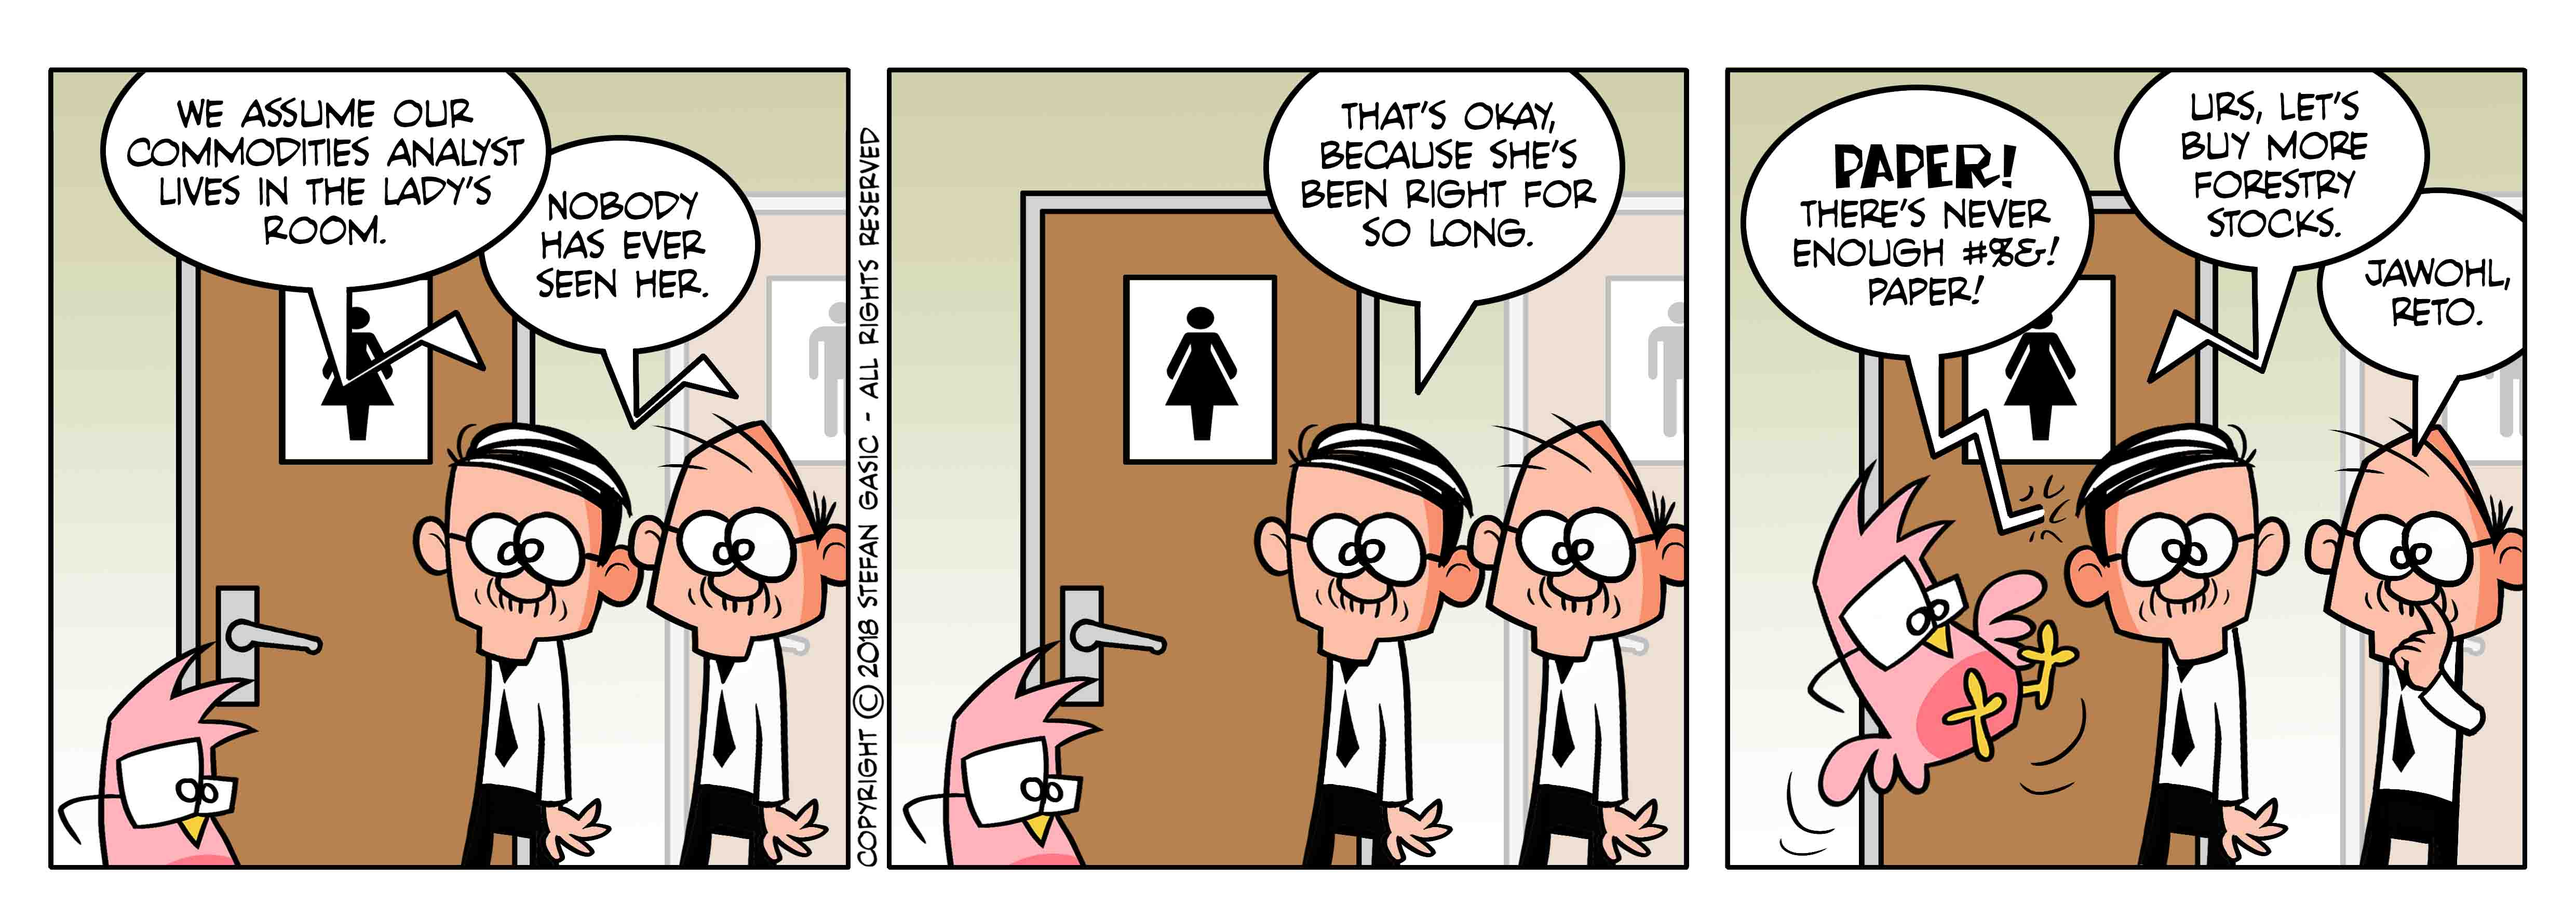
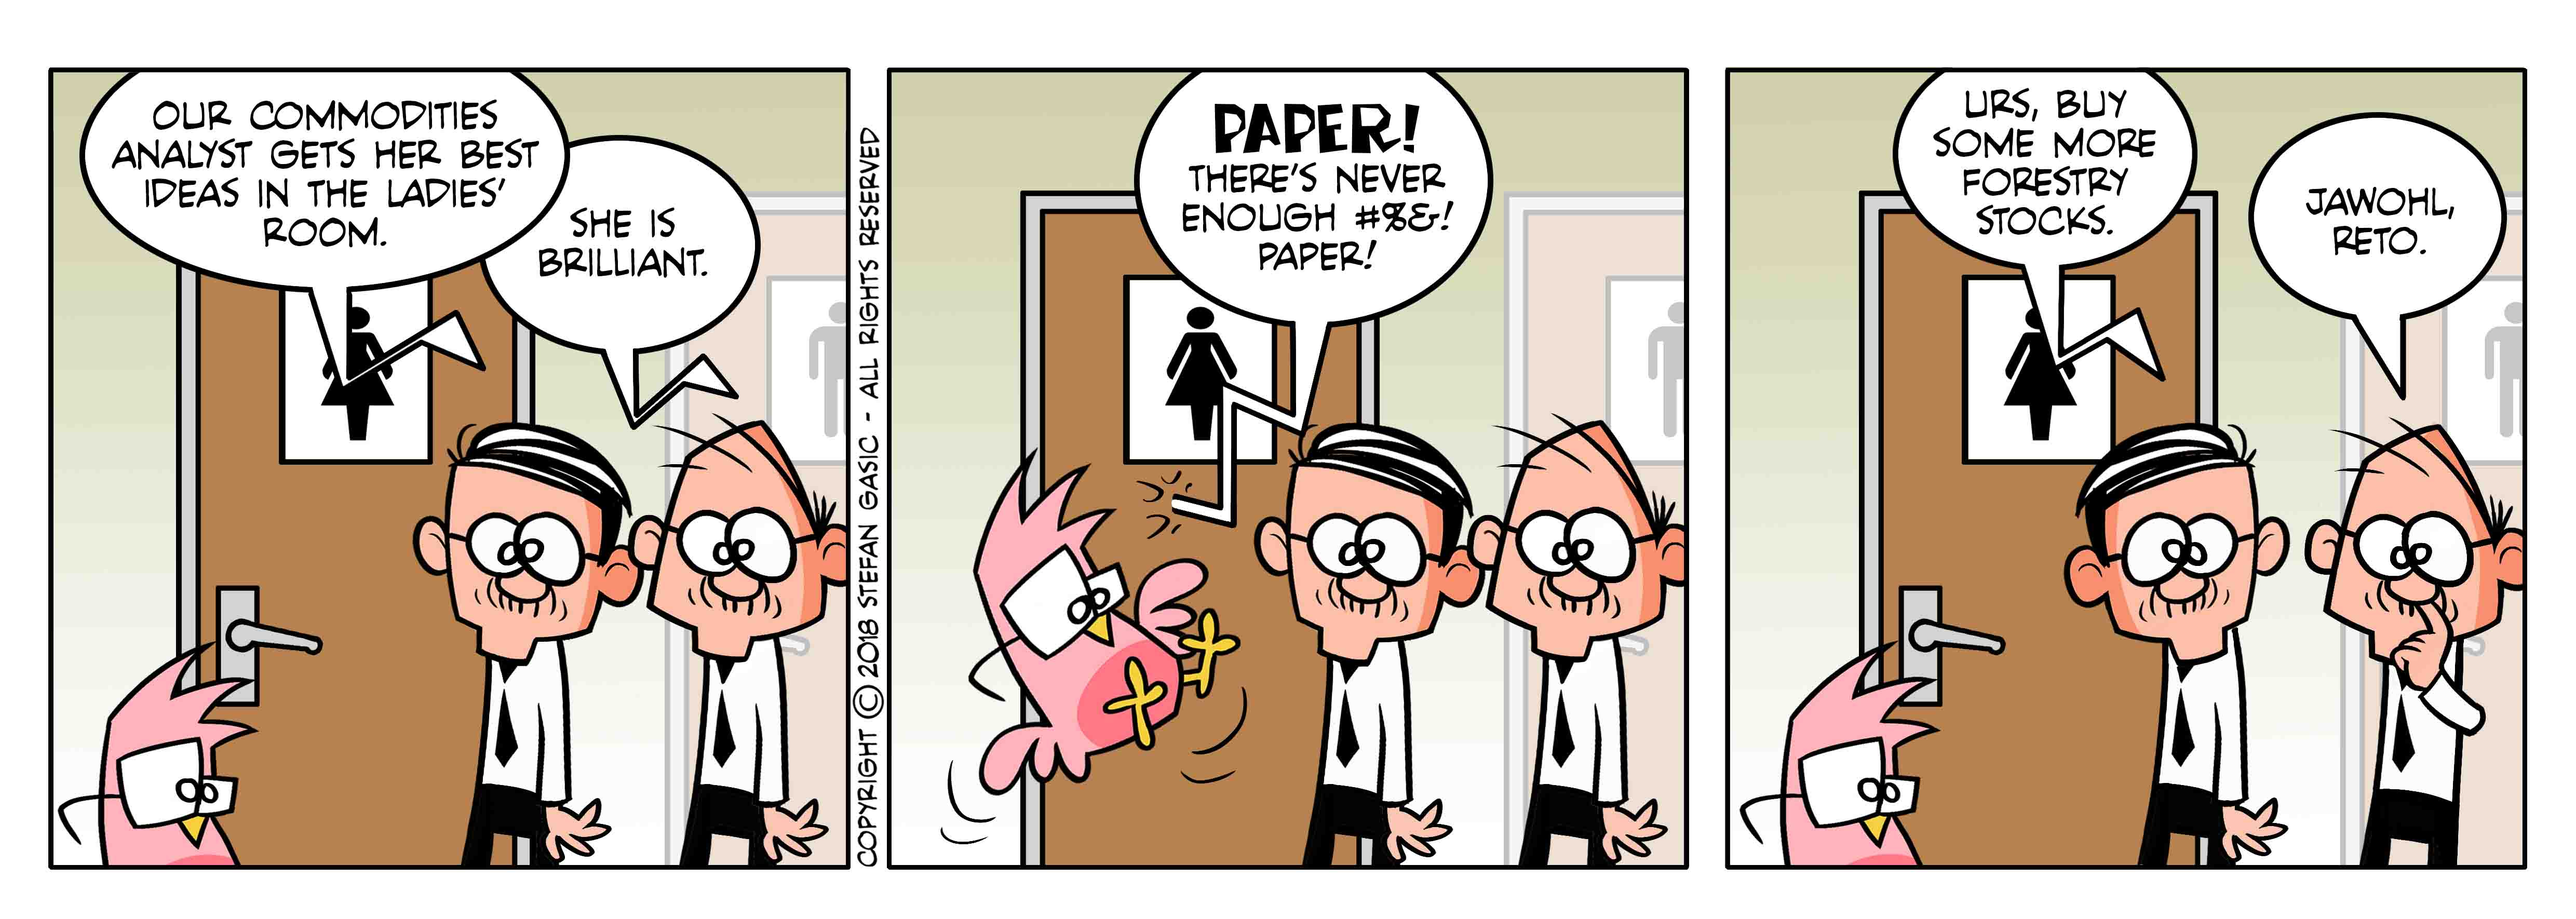
Added a new strip and updated the html and js codes accordingly.

Changed region(s): [[0.3437, 0.0621, 0.9998, 0.9633], [0.0312, 0.0621, 0.2812, 0.3418], [0.0625, 0.2797, 0.0937, 0.3107]]

diff --git a/myscripts.js b/myscripts.js
@@ -1,4 +1,4 @@
-var Strips = ["images/S259.jpg","images/S258.jpg","images/S257.jpg","images/S256.jpg","images/S255.jpg","images/S254.jpg","images/S253.jpg","images/S252.jpg","images/S251.jpg","images/S250.jpg","images/S249.jpg","images/S248.jpg","images/S247.jpg","images/S246.jpg","images/S245.jpg","images/S244.jpg","images/S243.jpg","images/S242.jpg","images/S241.jpg","images/S240.jpg","images/S239.jpg","images/S238.jpg","images/S237.jpg","images/S236.jpg","images/S235.jpg","images/S234.jpg","images/S233.jpg","images/S232.jpg","images/S231.jpg","images/S230.jpg","images/S229.jpg","images/S228.jpg","images/S227.jpg","images/S226.jpg","images/S225.jpg","images/S224.jpg","images/S223.jpg","images/S222.jpg","images/S221.jpg","images/S220.jpg","images/S219.jpg","images/S218.jpg","images/S217.jpg","images/S216.jpg","images/S215.jpg","images/S214.jpg","images/S213.jpg","images/S212.jpg","images/S211.jpg","images/S210.jpg","images/S209.jpg","images/S208.jpg","images/S207.jpg","images/S206.jpg","images/S205.jpg","images/S204.jpg","images/S203.jpg","images/S202.jpg","images/S201.jpg","images/S200.jpg","images/S199.jpg","images/S198.jpg","images/S197.jpg","images/S196.jpg","images/S195.jpg","images/S194.jpg","images/S193.jpg","images/S192.jpg","images/S191.jpg","images/S190.jpg","images/S189.jpg","images/S188.jpg","images/S187.jpg","images/S186.jpg","images/S185.jpg","images/S184.jpg","images/S183.jpg","images/S182.jpg","images/S181.jpg","images/S180.jpg","images/S179.jpg","images/S178.jpg","images/S177.jpg","images/S176.jpg","images/S175.jpg","images/S174.jpg","images/S173.jpg","images/S172.jpg","images/S171.jpg","images/S170.jpg","images/S169.jpg","images/S168.jpg","images/S167.jpg","images/S166.jpg","images/S165.jpg","images/S164.jpg","images/S163.jpg","images/S162.jpg","images/S161.jpg","images/S160.jpg","images/S159.jpg","images/S158.jpg","images/S157.jpg","images/S156.jpg","images/S155.jpg","images/S154.jpg","images/S153.jpg","images/S152.jpg","images/S151.jpg","images/S150.jpg","images/S149.jpg","images/S148.jpg","images/S147.jpg","images/S146.jpg","images/S145.jpg","images/S144.jpg","images/S143.jpg","images/S142.jpg","images/S141.jpg","images/S140.jpg","images/S139.jpg","images/S138.jpg","images/S137.jpg","images/S136.jpg","images/S135.jpg","images/S134.jpg","images/S133.jpg","images/S132.jpg","images/S131.jpg","images/S130.jpg","images/S129.jpg","images/S128.jpg","images/S127.jpg","images/S126.jpg","images/S125.jpg","images/S124.jpg","images/S123.jpg","images/S122.jpg","images/S121.jpg","images/S120.jpg","images/S119.jpg","images/S118.jpg","images/S117.jpg","images/S116.jpg","images/S115.jpg","images/S114.jpg","images/S113.jpg","images/S112.jpg","images/S111.jpg","images/S110.jpg","images/S109.jpg","images/S108.jpg","images/S107.jpg","images/S106.jpg","images/S105.jpg","images/S104.jpg","images/S103.jpg","images/S102.jpg","images/S101.jpg","images/S100.jpg","images/S99.jpg","images/S98.jpg","images/S97.jpg","images/S96.jpg","images/S95.jpg","images/S94.jpg","images/S93.jpg","images/S92.jpg","images/S91.jpg","images/S90.jpg","images/S89.jpg","images/S88.jpg","images/S87.jpg","images/S86.jpg","images/S85.jpg","images/S84.jpg","images/S83.jpg","images/S82.jpg","images/S81.jpg","images/S80.jpg","images/S79.jpg","images/S78.jpg","images/S77.jpg","images/S76.jpg","images/S75.jpg","images/S74.jpg","images/S73.jpg","images/S72.jpg","images/S71.jpg","images/S70.jpg","images/S69.jpg","images/S68.jpg","images/S67.jpg","images/S66.jpg","images/S65.jpg","images/S64.jpg","images/S63.jpg","images/S62.jpg","images/S61.jpg","images/S60.jpg","images/S59.jpg","images/S58.jpg","images/S57.jpg","images/S56.jpg","images/S55.jpg","images/S54.jpg","images/S53.jpg","images/S52.jpg","images/S51.jpg","images/S50.jpg","images/S49.jpg","images/S48.jpg","images/S47.jpg","images/S46.jpg","images/S45.jpg","images/S44.jpg","images/S43.jpg","images/S42.jpg","images/S41.jpg","images/S40.jpg","images/S39.jpg","images/S38.jpg","images/S37.jpg","images/S36.jpg","images/S35.jpg","images/S34.jpg","images/S33.jpg","images/S32.jpg","images/S31.jpg","images/S30.jpg","images/S29.jpg","images/S28.jpg","images/S27.jpg","images/S26.jpg","images/S25.jpg","images/S24.jpg","images/S23.jpg","images/S22.jpg","images/S21.jpg","images/S20.jpg","images/S19.jpg","images/S18.jpg","images/S17.jpg","images/S16.jpg","images/S15.jpg","images/S14.jpg","images/S13.jpg","images/S12.jpg","images/S11.jpg","images/S10.jpg","images/S9.jpg","images/S8.jpg","images/S7.jpg","images/S6.jpg","images/S5.jpg","images/S4.jpg","images/S3.jpg","images/S2.jpg","images/S1.jpg"];
+var Strips = ["images/S260.jpg","images/S259.jpg","images/S258.jpg","images/S257.jpg","images/S256.jpg","images/S255.jpg","images/S254.jpg","images/S253.jpg","images/S252.jpg","images/S251.jpg","images/S250.jpg","images/S249.jpg","images/S248.jpg","images/S247.jpg","images/S246.jpg","images/S245.jpg","images/S244.jpg","images/S243.jpg","images/S242.jpg","images/S241.jpg","images/S240.jpg","images/S239.jpg","images/S238.jpg","images/S237.jpg","images/S236.jpg","images/S235.jpg","images/S234.jpg","images/S233.jpg","images/S232.jpg","images/S231.jpg","images/S230.jpg","images/S229.jpg","images/S228.jpg","images/S227.jpg","images/S226.jpg","images/S225.jpg","images/S224.jpg","images/S223.jpg","images/S222.jpg","images/S221.jpg","images/S220.jpg","images/S219.jpg","images/S218.jpg","images/S217.jpg","images/S216.jpg","images/S215.jpg","images/S214.jpg","images/S213.jpg","images/S212.jpg","images/S211.jpg","images/S210.jpg","images/S209.jpg","images/S208.jpg","images/S207.jpg","images/S206.jpg","images/S205.jpg","images/S204.jpg","images/S203.jpg","images/S202.jpg","images/S201.jpg","images/S200.jpg","images/S199.jpg","images/S198.jpg","images/S197.jpg","images/S196.jpg","images/S195.jpg","images/S194.jpg","images/S193.jpg","images/S192.jpg","images/S191.jpg","images/S190.jpg","images/S189.jpg","images/S188.jpg","images/S187.jpg","images/S186.jpg","images/S185.jpg","images/S184.jpg","images/S183.jpg","images/S182.jpg","images/S181.jpg","images/S180.jpg","images/S179.jpg","images/S178.jpg","images/S177.jpg","images/S176.jpg","images/S175.jpg","images/S174.jpg","images/S173.jpg","images/S172.jpg","images/S171.jpg","images/S170.jpg","images/S169.jpg","images/S168.jpg","images/S167.jpg","images/S166.jpg","images/S165.jpg","images/S164.jpg","images/S163.jpg","images/S162.jpg","images/S161.jpg","images/S160.jpg","images/S159.jpg","images/S158.jpg","images/S157.jpg","images/S156.jpg","images/S155.jpg","images/S154.jpg","images/S153.jpg","images/S152.jpg","images/S151.jpg","images/S150.jpg","images/S149.jpg","images/S148.jpg","images/S147.jpg","images/S146.jpg","images/S145.jpg","images/S144.jpg","images/S143.jpg","images/S142.jpg","images/S141.jpg","images/S140.jpg","images/S139.jpg","images/S138.jpg","images/S137.jpg","images/S136.jpg","images/S135.jpg","images/S134.jpg","images/S133.jpg","images/S132.jpg","images/S131.jpg","images/S130.jpg","images/S129.jpg","images/S128.jpg","images/S127.jpg","images/S126.jpg","images/S125.jpg","images/S124.jpg","images/S123.jpg","images/S122.jpg","images/S121.jpg","images/S120.jpg","images/S119.jpg","images/S118.jpg","images/S117.jpg","images/S116.jpg","images/S115.jpg","images/S114.jpg","images/S113.jpg","images/S112.jpg","images/S111.jpg","images/S110.jpg","images/S109.jpg","images/S108.jpg","images/S107.jpg","images/S106.jpg","images/S105.jpg","images/S104.jpg","images/S103.jpg","images/S102.jpg","images/S101.jpg","images/S100.jpg","images/S99.jpg","images/S98.jpg","images/S97.jpg","images/S96.jpg","images/S95.jpg","images/S94.jpg","images/S93.jpg","images/S92.jpg","images/S91.jpg","images/S90.jpg","images/S89.jpg","images/S88.jpg","images/S87.jpg","images/S86.jpg","images/S85.jpg","images/S84.jpg","images/S83.jpg","images/S82.jpg","images/S81.jpg","images/S80.jpg","images/S79.jpg","images/S78.jpg","images/S77.jpg","images/S76.jpg","images/S75.jpg","images/S74.jpg","images/S73.jpg","images/S72.jpg","images/S71.jpg","images/S70.jpg","images/S69.jpg","images/S68.jpg","images/S67.jpg","images/S66.jpg","images/S65.jpg","images/S64.jpg","images/S63.jpg","images/S62.jpg","images/S61.jpg","images/S60.jpg","images/S59.jpg","images/S58.jpg","images/S57.jpg","images/S56.jpg","images/S55.jpg","images/S54.jpg","images/S53.jpg","images/S52.jpg","images/S51.jpg","images/S50.jpg","images/S49.jpg","images/S48.jpg","images/S47.jpg","images/S46.jpg","images/S45.jpg","images/S44.jpg","images/S43.jpg","images/S42.jpg","images/S41.jpg","images/S40.jpg","images/S39.jpg","images/S38.jpg","images/S37.jpg","images/S36.jpg","images/S35.jpg","images/S34.jpg","images/S33.jpg","images/S32.jpg","images/S31.jpg","images/S30.jpg","images/S29.jpg","images/S28.jpg","images/S27.jpg","images/S26.jpg","images/S25.jpg","images/S24.jpg","images/S23.jpg","images/S22.jpg","images/S21.jpg","images/S20.jpg","images/S19.jpg","images/S18.jpg","images/S17.jpg","images/S16.jpg","images/S15.jpg","images/S14.jpg","images/S13.jpg","images/S12.jpg","images/S11.jpg","images/S10.jpg","images/S9.jpg","images/S8.jpg","images/S7.jpg","images/S6.jpg","images/S5.jpg","images/S4.jpg","images/S3.jpg","images/S2.jpg","images/S1.jpg"];
 
 var Current = 0;
 var myStrip = null;

diff --git a/index.html b/index.html
@@ -38,7 +38,7 @@
 		<div class="wrapper6">
 			<div class="wrap-item61"><img src="images/2017_Offshorecomics_web_Today's Offshorecomic.jpg"/></div>
 		</div>
-		<div class="wrap-item1"><img src="images/S259.jpg" id="Strip"/></div>
+		<div class="wrap-item1"><img src="images/S260.jpg" id="Strip"/></div>
 		<div class="wrapper3">
 			<div class="wrap-item3">
 			<button class="button" onClick="Last();">&lsaquo;&lsaquo;</button>
